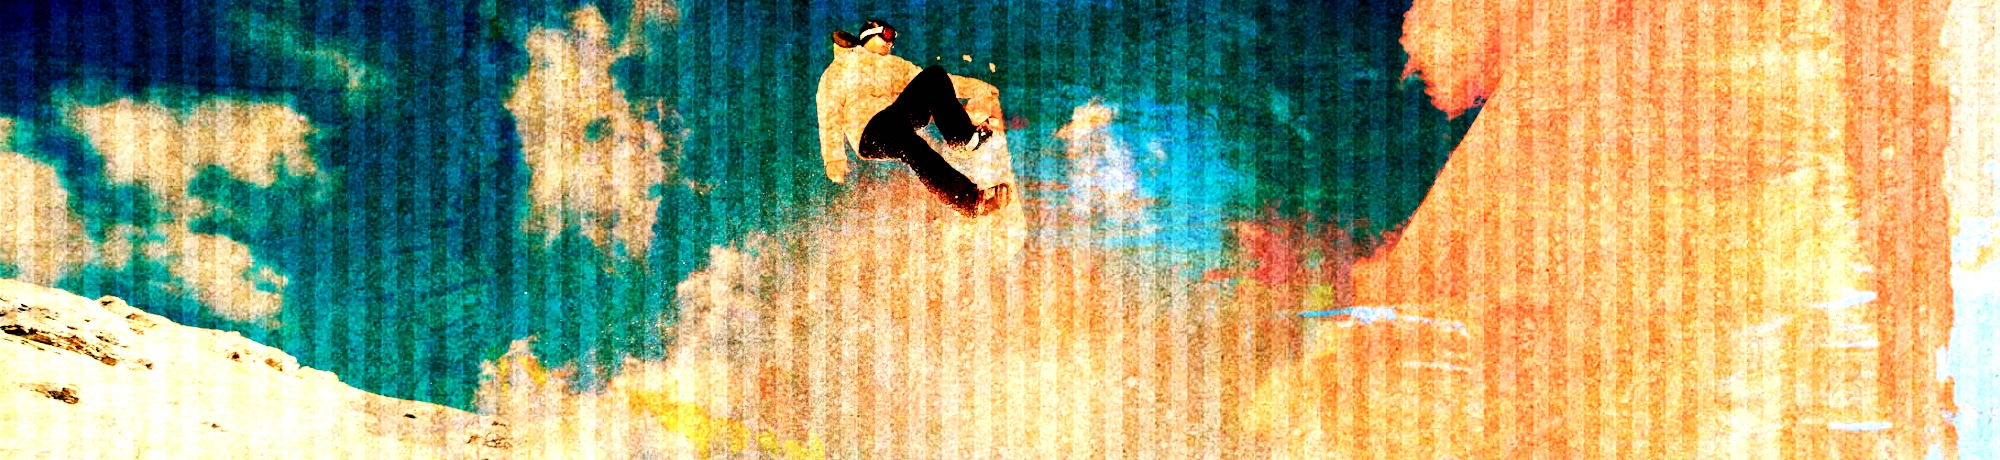
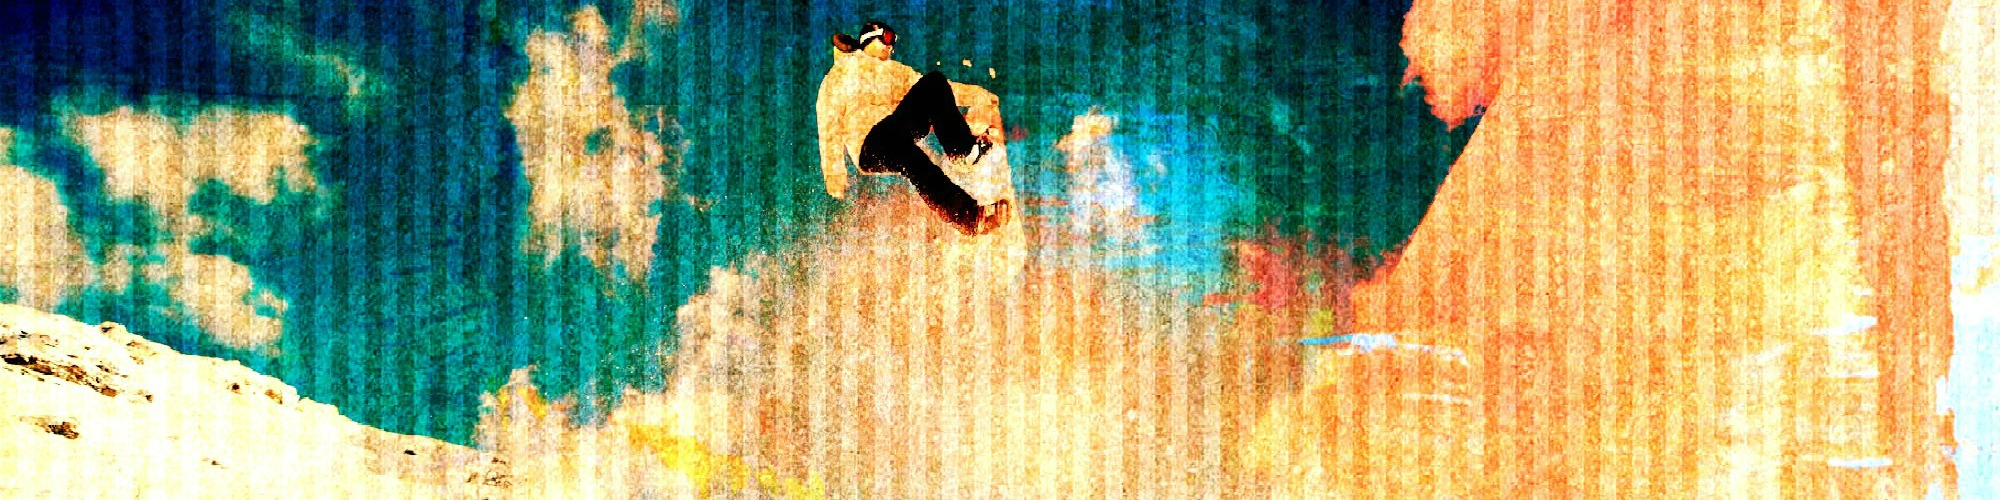
updating home view files

diff --git a/styles/styles.scss b/styles/styles.scss
@@ -74,6 +74,7 @@ hr {
 //home view
 .homePage .header img {
   width: 100%;
+  height: 100%;
   margin: 0px;
   padding: 0px;
 }

diff --git a/styles/styles.css b/styles/styles.css
@@ -70,6 +70,7 @@ hr {
 
 .homePage .header img {
   width: 100%;
+  height: 100%;
   margin: 0px;
   padding: 0px; }
 
